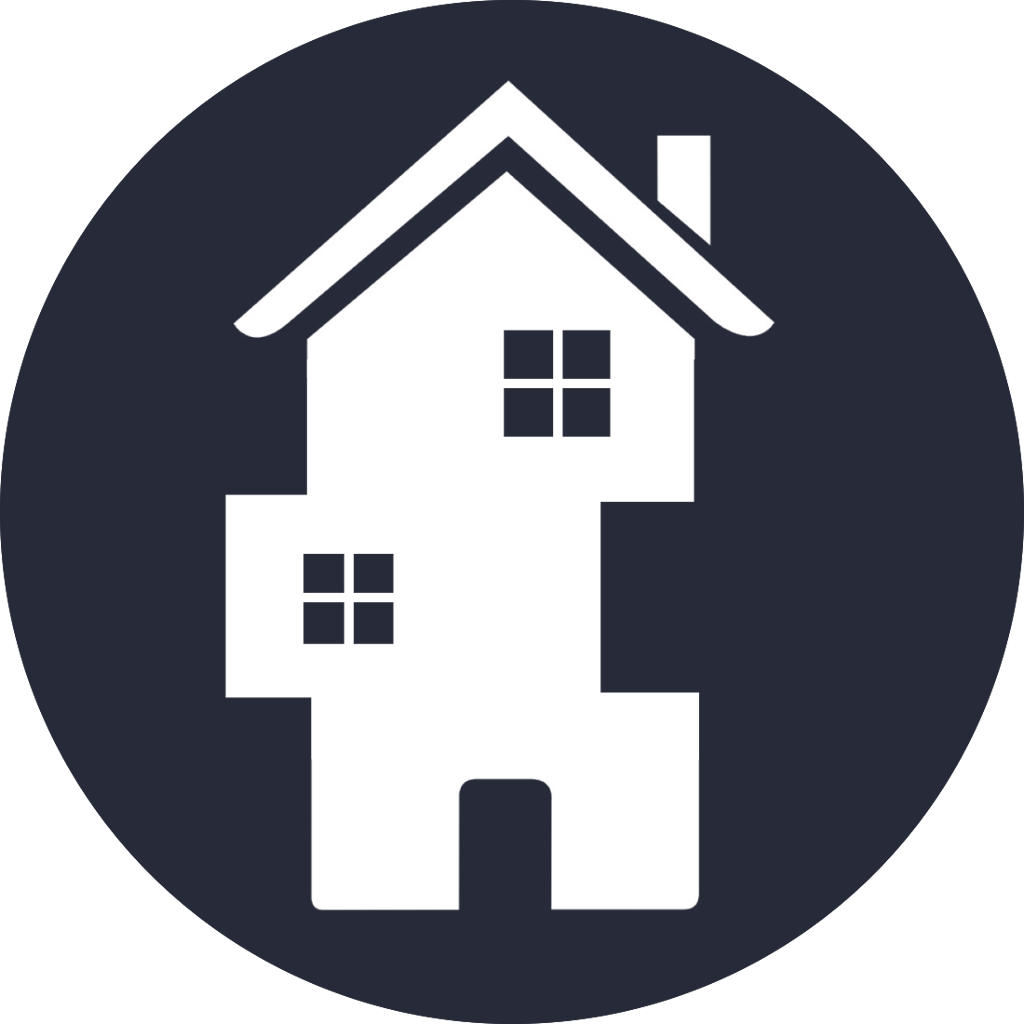
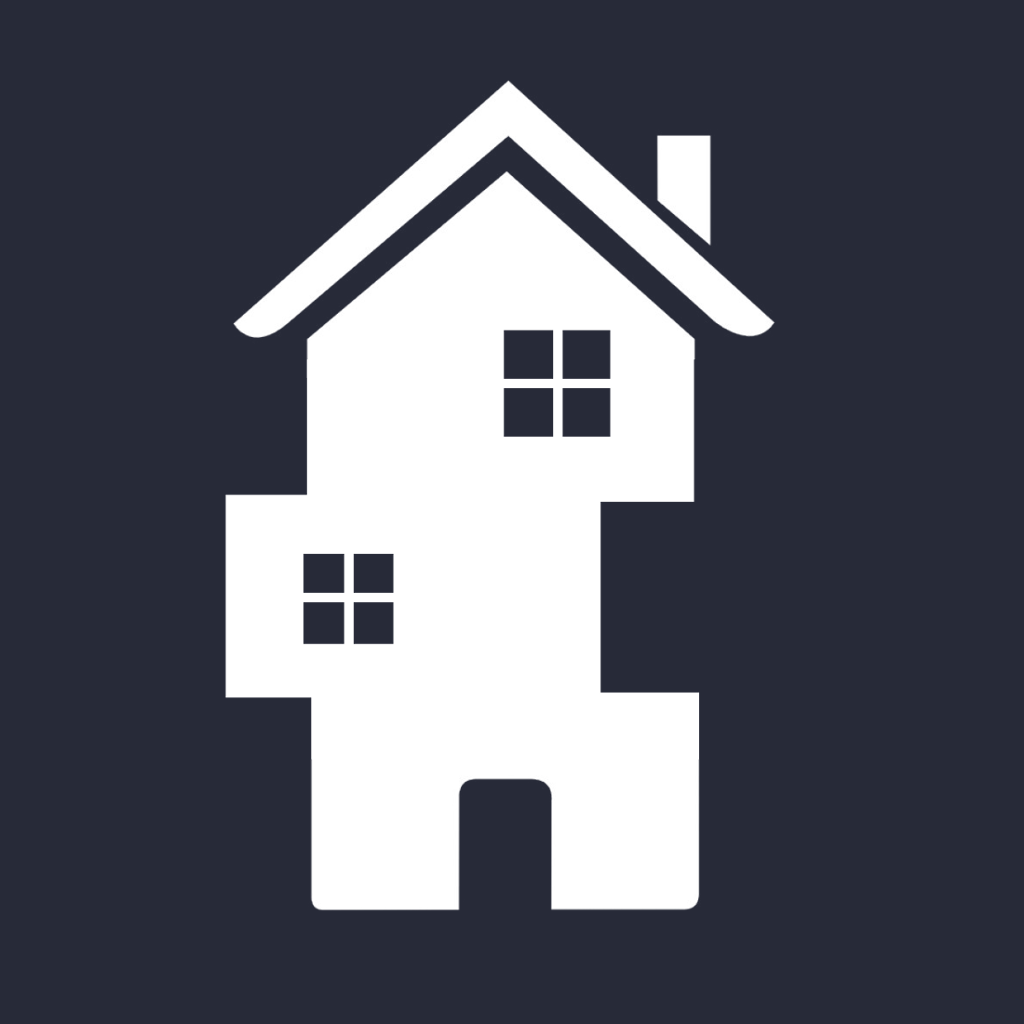
Tweaks to get it working nicely

diff --git a/index.html b/index.html
@@ -3,26 +3,32 @@
   <head>
     <title>Burrow Remote</title>
     <link rel="shortcut icon" type="image/png" href="assets/burrow.png" />
-    <link rel="manifest" href="manifest.json">
+    <link rel="manifest" href="manifest.json" />
+    <link rel="apple-touch-icon" sizes="1024x1024" href="assets/burrow.png" />
+    <meta name="theme-color" content="rgb(39, 42, 56)" />
+    <meta name="apple-mobile-web-app-capable" content="yes" />
+    <meta
+      name="apple-mobile-web-app-status-bar-style"
+      content="black-translucent"
+    />
     <style>
       body {
-        --dark: rgb(39, 42, 56);
-        --header: rgb(32, 34, 46);
+        --dark: rgb(41, 44, 57);
+        --header: rgb(31, 33, 43);
         --light: rgb(255, 255, 255);
         --green: rgb(31, 191, 111);
         --red: rgb(226, 90, 102);
 
         margin: 0;
         padding: 0;
-        background-color: var(--dark);
+        background-color: var(--header);
         display: flex;
         flex-direction: column;
         align-items: stretch;
-        gap: 2rem;
+        height: 100vh;
         font-family: "-apple-system", "Roboto", sans-serif;
       }
       body > header {
-        background-color: var(--header);
         color: var(--light);
         font-size: 300%;
 
@@ -30,13 +36,22 @@
         align-items: center;
         justify-content: center;
         text-transform: uppercase;
-        padding: 2rem;
+        padding: 4rem;
 
-        -webkit-user-select: none;  
-        -moz-user-select: none;    
+        -webkit-user-select: none;
+        -moz-user-select: none;
         user-select: none;
       }
-      body > button {
+      body > section {
+        background-color: var(--dark);
+        height: 100%;
+        display: flex;
+        flex-direction: column;
+        align-items: stretch;
+        gap: 2rem;
+        padding-top: 2rem;
+      }
+      body > section > button {
         display: flex;
         flex-direction: row;
         align-items: center;
@@ -44,42 +59,42 @@
         padding: 3rem;
         margin: 4rem;
         border-radius: 1rem;
-        border: 1px solid var(--light);
+        border: 2px solid var(--light);
         color: var(--light);
         background-color: transparent;
         font-size: 300%;
         animation: opacity 300ms linear;
 
-        -webkit-user-select: none;  
-        -moz-user-select: none;    
+        -webkit-user-select: none;
+        -moz-user-select: none;
         user-select: none;
       }
-      body > button:active {
+      body > section > button:active {
         opacity: 0.9;
       }
-      body > button > .icon {
+      body > section > button > .icon {
         width: 7rem;
         height: 7rem;
         transition: opacity 150ms linear;
       }
-      body > button > .icon.loading {
+      body > section > button > .icon.loading {
         opacity: 0.8;
       }
-      body > button > .loader {
+      body > section > button > .loader {
         display: flex;
         align-items: center;
         justify-content: center;
         width: 7rem;
         height: 7rem;
         border-radius: 5rem;
-        border: 1px solid var(--light);
+        border: 2px solid var(--light);
         transition: background-color 150ms linear;
         background-color: var(--dark);
       }
-      body > button > .loader.success {
+      body > section > button > .loader.success {
         background-color: var(--green);
       }
-      body > button > .loader.fail {
+      body > section > button > .loader.fail {
         background-color: var(--red);
       }
       @keyframes rotate {
@@ -90,25 +105,25 @@
           transform: rotate(360deg);
         }
       }
-      body > button > .loader.loading {
+      body > section > button > .loader.loading {
         animation: rotate 2s linear infinite;
         transform: rotate(360deg);
       }
-      body > button > .loader > svg {
+      body > section > button > .loader > svg {
         width: 4rem;
         height: 4rem;
         display: none;
       }
-      body > button > .loader.default > svg.default {
+      body > section > button > .loader.default > svg.default {
         display: block;
       }
-      body > button > .loader.success > svg.success {
+      body > section > button > .loader.success > svg.success {
         display: block;
       }
-      body > button > .loader.fail > svg.fail {
+      body > section > button > .loader.fail > svg.fail {
         display: block;
       }
-      body > button > .loader.loading > svg.loading {
+      body > section > button > .loader.loading > svg.loading {
         display: block;
       }
     </style>
@@ -231,31 +246,27 @@
       }
 
       // Decrypting, Polling, etc.
-      window.addEventListener(
-        "load",
-        function () {
-          (async () => {
-            // Get the password we have stored
-            let password = window.localStorage.getItem("password");
-            if (password) {
-              await initState(password);
-            } else {
-              while (!password) {
-                password = await askForPassword();
-              }
-            }
-            // Start polling for changes
-            startPolling();
-            // const doorResult = await getGarageDoorState();
-            // setGarageDoorState(doorResult.state);
-            // Listen for button presses
-            document
-              .querySelector("button")
-              .addEventListener("click", toggleGarageDoor);
-          })();
-        },
-        false
-      );
+      async function init() {
+        // Get the password we have stored
+        let password = window.localStorage.getItem("password");
+        if (password) {
+          await initState(password);
+        } else {
+          while (!password) {
+            password = await askForPassword();
+          }
+        }
+        // Start polling for changes
+        startPolling();
+        const doorResult = await getGarageDoorState();
+        setGarageDoorState(doorResult.state);
+        // Listen for button presses
+        document
+          .querySelector("button")
+          .addEventListener("click", toggleGarageDoor);
+      }
+      document.addEventListener("focus", init);
+      window.addEventListener("load", init);
 
       // Caching.
       const cacheName = "burrow-cache";
@@ -441,68 +452,74 @@
   </head>
   <body>
     <header>The Burrow</header>
-    <button>
-      <img class="icon loading" src="assets/car_closed.png" />
-      GARAGE
-      <div class="loader default">
-        <svg
-          xmlns="http://www.w3.org/2000/svg"
-          class="default"
-          fill="none"
-          viewBox="0 0 24 24"
-          stroke="currentColor"
-          strokeWidth="1"
-        >
-          <path strokeLinecap="round" strokeLinejoin="round" d="M9 5l7 7-7 7" />
-        </svg>
-        <svg
-          xmlns="http://www.w3.org/2000/svg"
-          class="success"
-          fill="none"
-          viewBox="0 0 24 24"
-          stroke="currentColor"
-          strokeWidth="1"
-        >
-          <path
-            strokeLinecap="round"
-            strokeLinejoin="round"
-            d="M5 13l4 4L19 7"
-          />
-        </svg>
-        <svg
-          xmlns="http://www.w3.org/2000/svg"
-          class="fail"
-          fill="none"
-          viewBox="0 0 24 24"
-          stroke="currentColor"
-          stroke-width="1"
-        >
-          <path
-            stroke-linecap="round"
-            stroke-linejoin="round"
-            d="M6 18L18 6M6 6l12 12"
-          />
-        </svg>
-        <svg
-          xmlns="http://www.w3.org/2000/svg"
-          class="loading"
-          fill="none"
-          viewBox="0 0 24 24"
-          stroke="currentColor"
-          stroke-width="1"
-        >
-          <path
-            stroke-linecap="round"
-            stroke-linejoin="round"
-            d="M10.325 4.317c.426-1.756 2.924-1.756 3.35 0a1.724 1.724 0 002.573 1.066c1.543-.94 3.31.826 2.37 2.37a1.724 1.724 0 001.065 2.572c1.756.426 1.756 2.924 0 3.35a1.724 1.724 0 00-1.066 2.573c.94 1.543-.826 3.31-2.37 2.37a1.724 1.724 0 00-2.572 1.065c-.426 1.756-2.924 1.756-3.35 0a1.724 1.724 0 00-2.573-1.066c-1.543.94-3.31-.826-2.37-2.37a1.724 1.724 0 00-1.065-2.572c-1.756-.426-1.756-2.924 0-3.35a1.724 1.724 0 001.066-2.573c-.94-1.543.826-3.31 2.37-2.37.996.608 2.296.07 2.572-1.065z"
-          />
-          <path
-            stroke-linecap="round"
-            stroke-linejoin="round"
-            d="M15 12a3 3 0 11-6 0 3 3 0 016 0z"
-          />
-        </svg>
-      </div>
-    </button>
+    <section>
+      <button>
+        <img class="icon loading" src="assets/car_closed.png" />
+        GARAGE
+        <div class="loader default">
+          <svg
+            xmlns="http://www.w3.org/2000/svg"
+            class="default"
+            fill="none"
+            viewBox="0 0 24 24"
+            stroke="currentColor"
+            strokeWidth="1"
+          >
+            <path
+              strokeLinecap="round"
+              strokeLinejoin="round"
+              d="M9 5l7 7-7 7"
+            />
+          </svg>
+          <svg
+            xmlns="http://www.w3.org/2000/svg"
+            class="success"
+            fill="none"
+            viewBox="0 0 24 24"
+            stroke="currentColor"
+            strokeWidth="1"
+          >
+            <path
+              strokeLinecap="round"
+              strokeLinejoin="round"
+              d="M5 13l4 4L19 7"
+            />
+          </svg>
+          <svg
+            xmlns="http://www.w3.org/2000/svg"
+            class="fail"
+            fill="none"
+            viewBox="0 0 24 24"
+            stroke="currentColor"
+            stroke-width="1"
+          >
+            <path
+              stroke-linecap="round"
+              stroke-linejoin="round"
+              d="M6 18L18 6M6 6l12 12"
+            />
+          </svg>
+          <svg
+            xmlns="http://www.w3.org/2000/svg"
+            class="loading"
+            fill="none"
+            viewBox="0 0 24 24"
+            stroke="currentColor"
+            stroke-width="1"
+          >
+            <path
+              stroke-linecap="round"
+              stroke-linejoin="round"
+              d="M10.325 4.317c.426-1.756 2.924-1.756 3.35 0a1.724 1.724 0 002.573 1.066c1.543-.94 3.31.826 2.37 2.37a1.724 1.724 0 001.065 2.572c1.756.426 1.756 2.924 0 3.35a1.724 1.724 0 00-1.066 2.573c.94 1.543-.826 3.31-2.37 2.37a1.724 1.724 0 00-2.572 1.065c-.426 1.756-2.924 1.756-3.35 0a1.724 1.724 0 00-2.573-1.066c-1.543.94-3.31-.826-2.37-2.37a1.724 1.724 0 00-1.065-2.572c-1.756-.426-1.756-2.924 0-3.35a1.724 1.724 0 001.066-2.573c-.94-1.543.826-3.31 2.37-2.37.996.608 2.296.07 2.572-1.065z"
+            />
+            <path
+              stroke-linecap="round"
+              stroke-linejoin="round"
+              d="M15 12a3 3 0 11-6 0 3 3 0 016 0z"
+            />
+          </svg>
+        </div>
+      </button>
+    </section>
   </body>
 </html>
